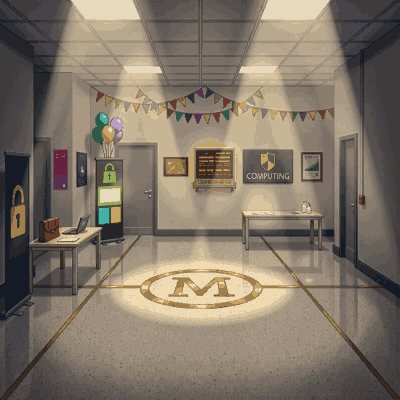
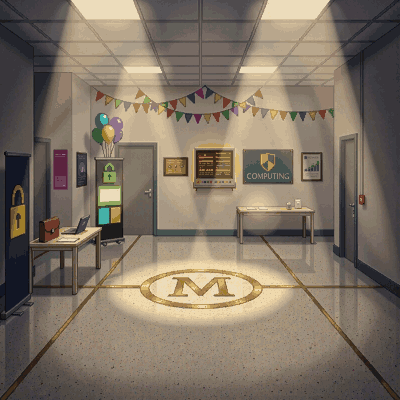
The Tesseract Trials: Cliffe by his laptop, Tom at the lecture desk, foyer display table under the crest
Cliffe stands beside his laptop desk, Tom just in front of the lecturer's desk.
The foyer's display table (and its two notes slots) moves against the back
wall under the Computing sign, behind Jordan; the builder, the map and the
foyer's conversation background are updated to match.

diff --git a/scripts/generate_rooms.py b/scripts/generate_rooms.py
@@ -2100,8 +2100,10 @@ def room_uni_foyer():
     society's freshers' fair stall. Freshers' fair dressing (round 2): bunting along
     the back wall either side of the crest, the Cyber Security Society's pull-up
     banner and a bunch of balloons in the west half, a second poster on the west wall.
-    The banner and balloons are walk-through items (no body), west of Jordan
-    (3.6, 5.3 = x 115, feet 170) and east of the x 32-64 column to the S door.
+    The banner and balloons are walk-through items (no body), east of the x 32-64
+    column to the S door. Jordan stands at (6.5, 3.6), towards the top right, in
+    front of the display table, which stands against the back wall under the crest
+    (2026-10-11; it was mid-room at x 206, feet 196).
 
     Doors: N (NW corner), W and E on row 2, S (SW corner, covered rows). The
     player spawns at (160, 144) on the brass "M" inlay in the floor sheet, so
@@ -2111,7 +2113,7 @@ def room_uni_foyer():
     notes2 on the display (as-type:notes), briefcase11 and laptop6 on the stand.
     """
     r = _Uni()
-    display = r.table("desk1", 206.0, 196.0)        # heritage display table
+    display = r.table("desk1", 157.0, 104.0)        # heritage display table, against the back wall under the crest (user, 2026-10-11)
     stand = r.table("desk1", 100.0, 240.0)          # recruiter's stand
     # back wall: plaque, Byte Wall, crest (decor), chart; >= 32px between interactables
     r.item("plaque1", 82.0, 52.0)
